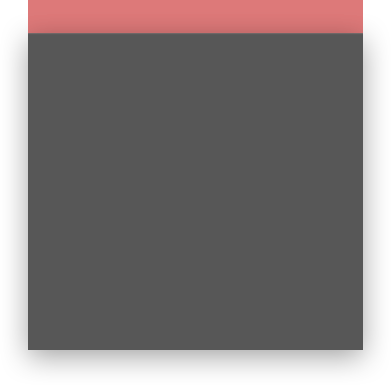
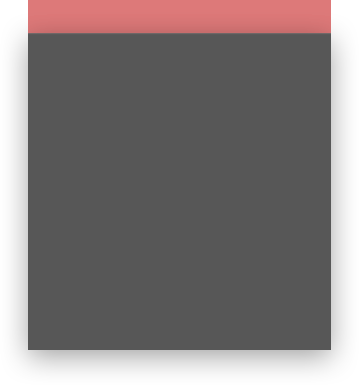
fix support view

Changed region(s): [[0.9192, 0.0, 0.9499, 0.9039], [0.0613, 0.0, 0.0919, 0.9039]]

diff --git a/core/src/com/rpsg/rpg/view/menu/TacticView.java b/core/src/com/rpsg/rpg/view/menu/TacticView.java
@@ -369,11 +369,12 @@ public class TacticView extends DefaultIView {
 			ScrollPane pane=new ScrollPane(table);
 			pane.getStyle().vScroll=Res.getDrawable(Setting.IMAGE_MENU_EQUIP+"scrollbar.png");
 			pane.getStyle().vScrollKnob=Res.getDrawable(Setting.IMAGE_MENU_EQUIP+"scrollbarin.png");
-			pane.setSize(330, 315);
+			pane.setSize(295, 315);
 			pane.setPosition(x, y-13);
-			group.addActor(new Image(Setting.IMAGE_MENU_TACTIC+"sup_box.png").position(x-30, y-50));
+			group.addActor(new Image(Setting.IMAGE_MENU_TACTIC+"sup_box.png").position(x-32, y-50));
 			group.addActor(pane);
 			pane.setForceScroll(false, true);
+			pane.setScrollingDisabled(true, false);
 		}
 		
 		SupGroup generate(List<Hero> heroList){
@@ -390,7 +391,7 @@ public class TacticView extends DefaultIView {
 						si.select = true;
 						currentSelect = si;
 					}
-				})).prefSize(324, 58).row();
+				})).prefSize(300, 58).row();
 			}
 			table.align(Align.top);
 			for (Cell<?> c : table.getCells()) {
@@ -418,8 +419,8 @@ public class TacticView extends DefaultIView {
 		s_l=new SupGroup(1240, 65).generate(Support.getPreSupportList());
 		s_r=new SupGroup(1694, 65).generate(Support.getSupportList());
 		final Label nl,nr;
-		group.addActor(nl=new Label("",20).width(1000).align(900, 383));
-		group.addActor(nr=new Label("",20).width(1000).align(1365, 383));
+		group.addActor(nl=new Label("",20).width(1000).align(885, 383));
+		group.addActor(nr=new Label("",20).width(1000).align(1350, 383));
 		final Runnable func_resetLabel= new Runnable() {
 			@Override
 			public void run() {
@@ -440,7 +441,7 @@ public class TacticView extends DefaultIView {
 							i.remove();
 					s_l.table.layout();
 
-					s_r.table.add(currentSelect).prefSize(324, 58).row();
+					s_r.table.add(currentSelect).prefSize(300, 58).row();
 					for (Cell<?> c : s_r.table.getCells()) {
 						c.padTop(3).padBottom(3);
 					}
@@ -452,7 +453,7 @@ public class TacticView extends DefaultIView {
 					func_resetLabel.run();
 				}
 			}
-		}).pos(1588, 320));
+		}).pos(1573, 320));
 		group.addActor(l=new ImageButton(Res.getDrawable(Setting.IMAGE_MENU_TACTIC+"sup_left.png"), Res.getDrawable(Setting.IMAGE_MENU_TACTIC+"sup_left_p.png")).onClick(new Runnable() {
 			@Override
 			public void run() {
@@ -464,7 +465,7 @@ public class TacticView extends DefaultIView {
 							i.remove();
 					s_r.table.layout();
 
-					s_l.table.add(currentSelect).prefSize(324, 58).row();
+					s_l.table.add(currentSelect).prefSize(300, 58).row();
 					for (Cell<?> c : s_l.table.getCells()) {
 						c.padTop(3).padBottom(3);
 					}
@@ -476,7 +477,7 @@ public class TacticView extends DefaultIView {
 					func_resetLabel.run();
 				}
 			}
-		}).pos(1588, 240));
+		}).pos(1573, 240));
 		group.addActor(new ImageButton(Res.getDrawable(Setting.IMAGE_MENU_TACTIC+"sup_ll.png"), Res.getDrawable(Setting.IMAGE_MENU_TACTIC+"sup_ll_p.png")).onClick(new Runnable() {
 			@Override
 			public void run() {
@@ -485,7 +486,7 @@ public class TacticView extends DefaultIView {
 					l.click();
 				}
 			}
-		}).pos(1588, 160));
+		}).pos(1573, 160));
 		group.addActor(new ImageButton(Res.getDrawable(Setting.IMAGE_MENU_TACTIC+"sup_info.png"), Res.getDrawable(Setting.IMAGE_MENU_TACTIC+"sup_info_p.png")).onClick(new Runnable() {
 			@SuppressWarnings("serial")
 			@Override
@@ -497,7 +498,7 @@ public class TacticView extends DefaultIView {
 					}});
 				}
 			}
-		}).pos(1588, 80));
+		}).pos(1573, 80));
 	}
 	
 	class SupImage extends Image{
@@ -530,7 +531,7 @@ public class TacticView extends DefaultIView {
 			name.draw(sb, parentAlpha);
 			level.setPosition(getX()+120, getY()+7);
 			level.draw(sb, parentAlpha);
-			association.setPosition(getX()+240, getY()+10);
+			association.setPosition(getX()+220, getY()+10);
 			association.draw(sb, parentAlpha);
 			sbox.setPosition(getX(), getY()-1);
 			if(select)
